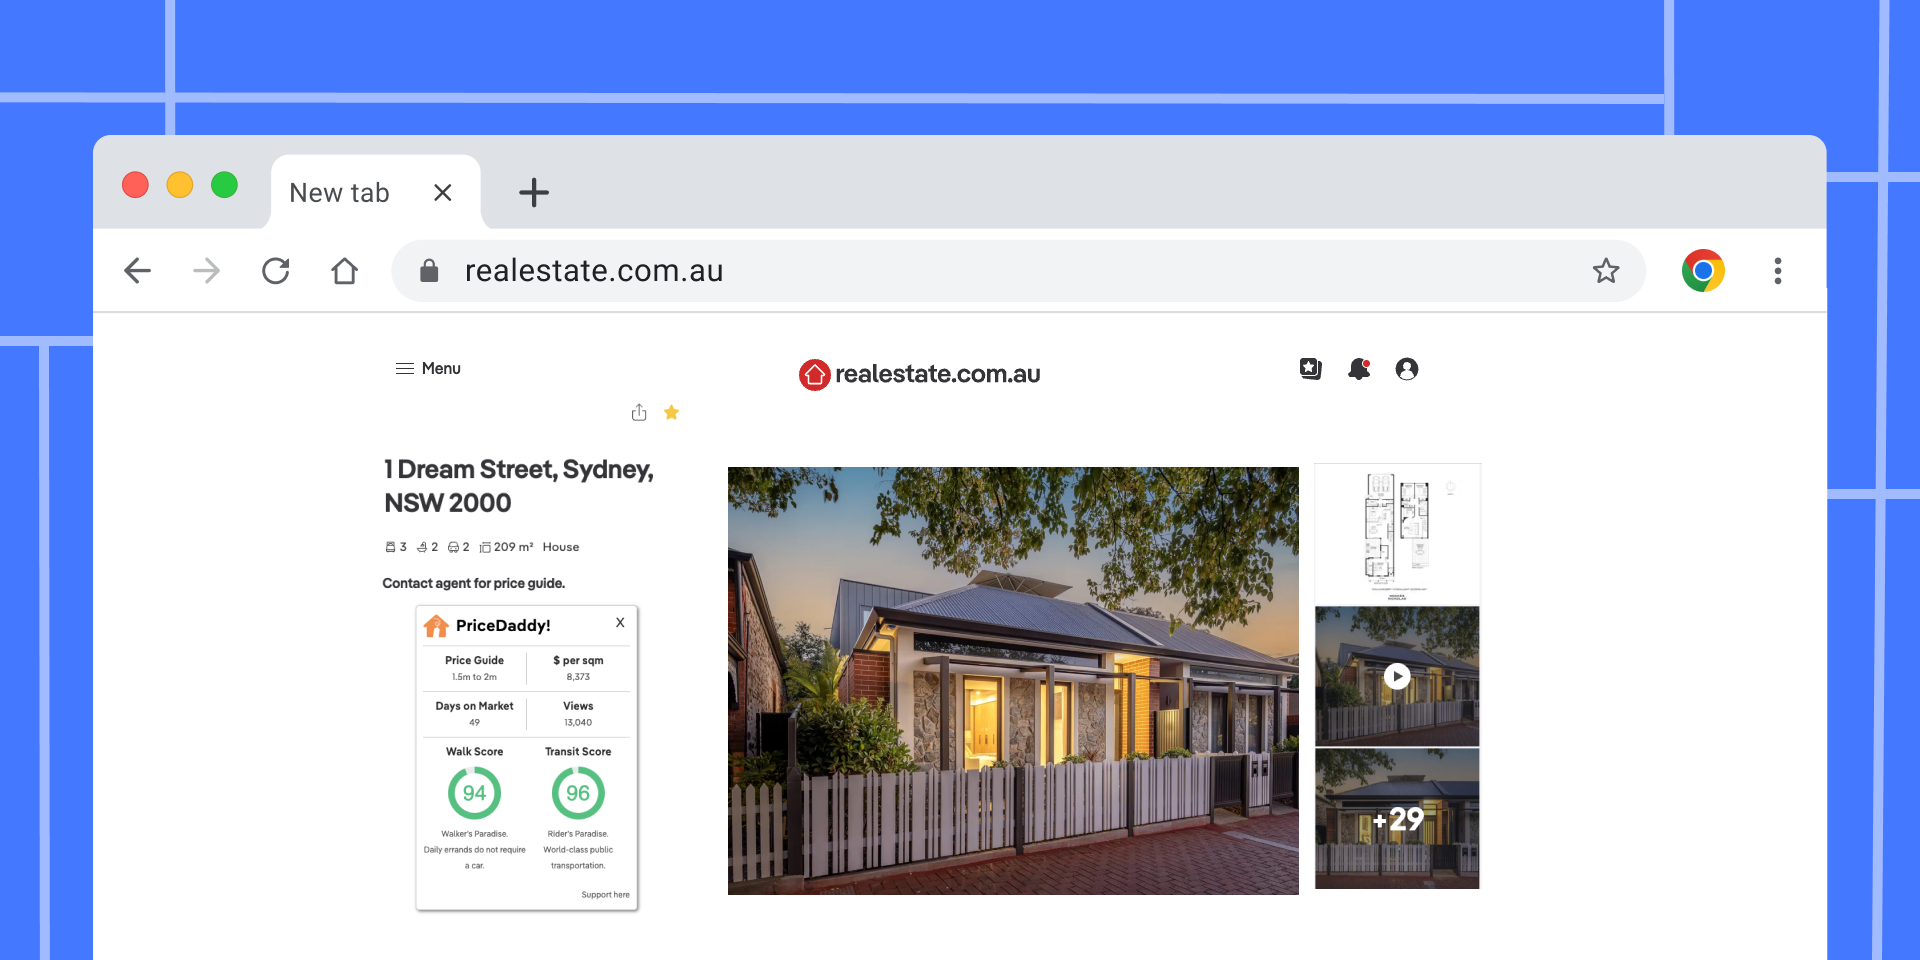
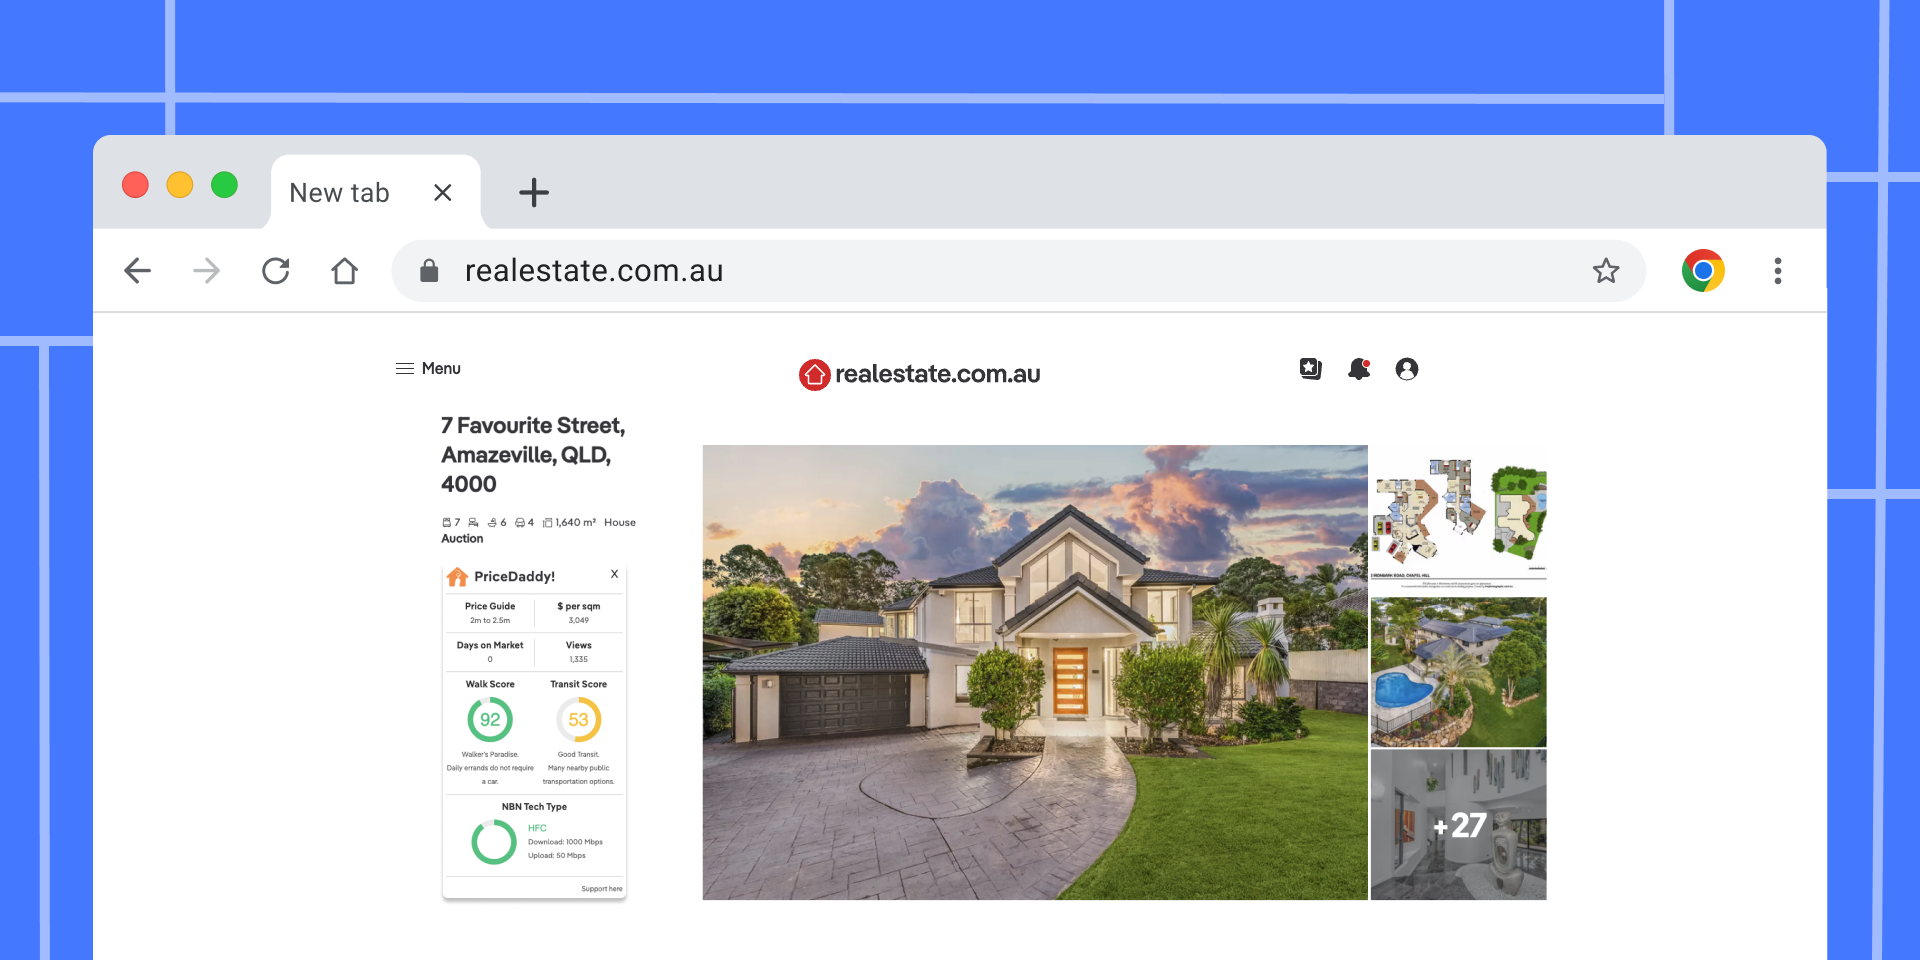
included NBN type

Changed region(s): [[0.1875, 0.4375, 0.8125, 0.9688]]

diff --git a/app/page.tsx b/app/page.tsx
@@ -1,5 +1,4 @@
 import React from "react";
-import Link from "next/link";
 import Image from "next/image";
 import logo from "@/public/logo.svg";
 import heroImage from "@/public/hero.png";
@@ -8,6 +7,7 @@ import costpersqmImage from "../public/costpersqmImage.png";
 import viewsImage from "../public/viewsImage.png";
 import walkScoreImage from "../public/walkscore.png";
 import transitScoreImage from "../public/transitscore.png";
+import nbnConnectionImage from "../public/dial.png";
 
 export default function Home() {
   return (
@@ -221,7 +221,7 @@ export default function Home() {
             Features coming soon!
           </h2>
 
-          <div className="grid grid-cols-1 sm:grid-cols-2 gap-5 mt-5">
+          <div className="grid grid-cols-1 sm:grid-cols-3 gap-5 mt-5">
             <div className="w-full h-auto rounded-2xl flex flex-col justify-between gap-5 p-10 bg-white shadow-lg">
               <div className="w-full sm:h-[200px] h-[150px] grid place-items-center">
                 <Image
@@ -236,7 +236,8 @@ export default function Home() {
                   Walk Score
                 </p>
                 <p className="text-[#666666] md:text-[16px] text-[14px] leading-[150%]">
-                  See the walkability score of a property.
+                  Walk Score measures the walkability of an address based on
+                  proximity to amenities and pedestrian friendliness.
                 </p>
               </div>
             </div>
@@ -254,7 +255,27 @@ export default function Home() {
                   Transit Score
                 </p>
                 <p className="text-[#666666] md:text-[16px] text-[14px] leading-[150%]">
-                  Find out the transit score of a property.
+                  Transit Score measures public transit access by distance to
+                  the nearest stop, frequency, and route type.
+                </p>
+              </div>
+            </div>
+            <div className="w-full h-auto rounded-2xl flex flex-col justify-between gap-5 p-10 bg-white shadow-lg">
+              <div className="w-full sm:h-[200px] h-[150px] grid place-items-center">
+                <Image
+                  src={nbnConnectionImage}
+                  alt="NBN Connection"
+                  width={160}
+                  height={160}
+                />
+              </div>
+              <div>
+                <p className="text-black md:text-[20px] text-[18px] font-bold leading-[150%]">
+                  NBN Score
+                </p>
+                <p className="text-[#666666] md:text-[16px] text-[14px] leading-[150%]">
+                  Check NBN connection type with estimated upload and download
+                  speeds.
                 </p>
               </div>
             </div>
